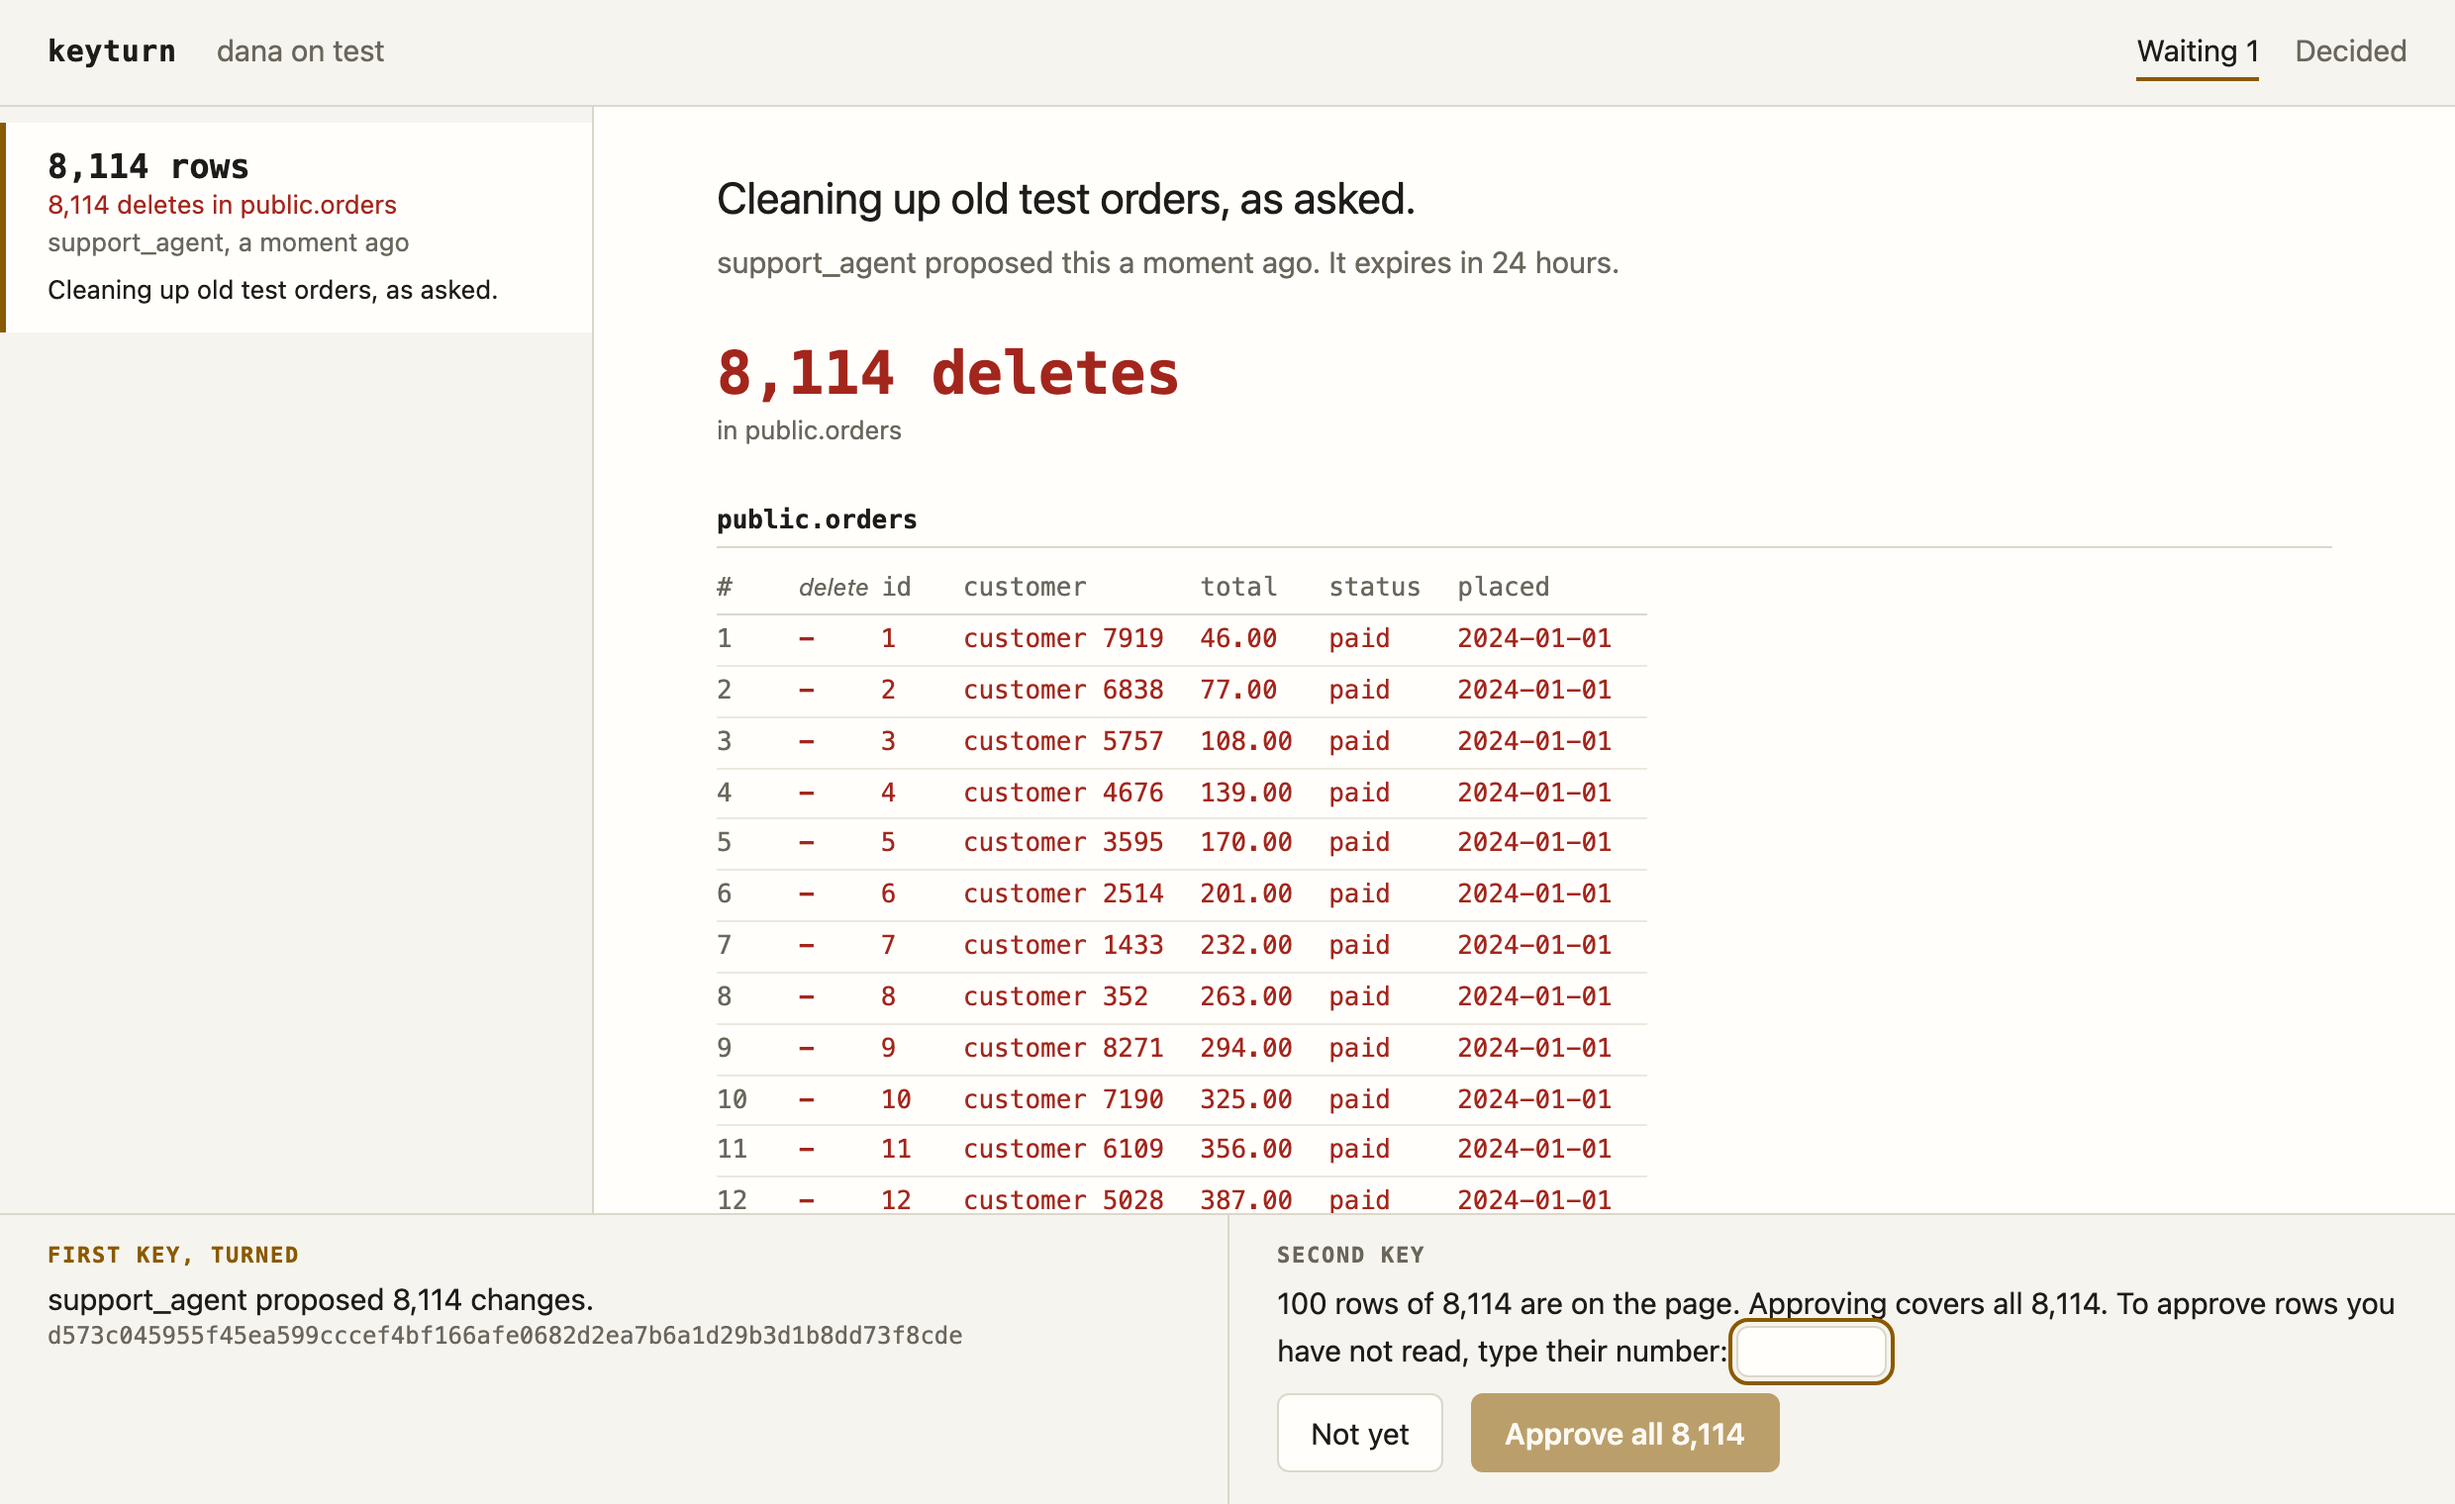
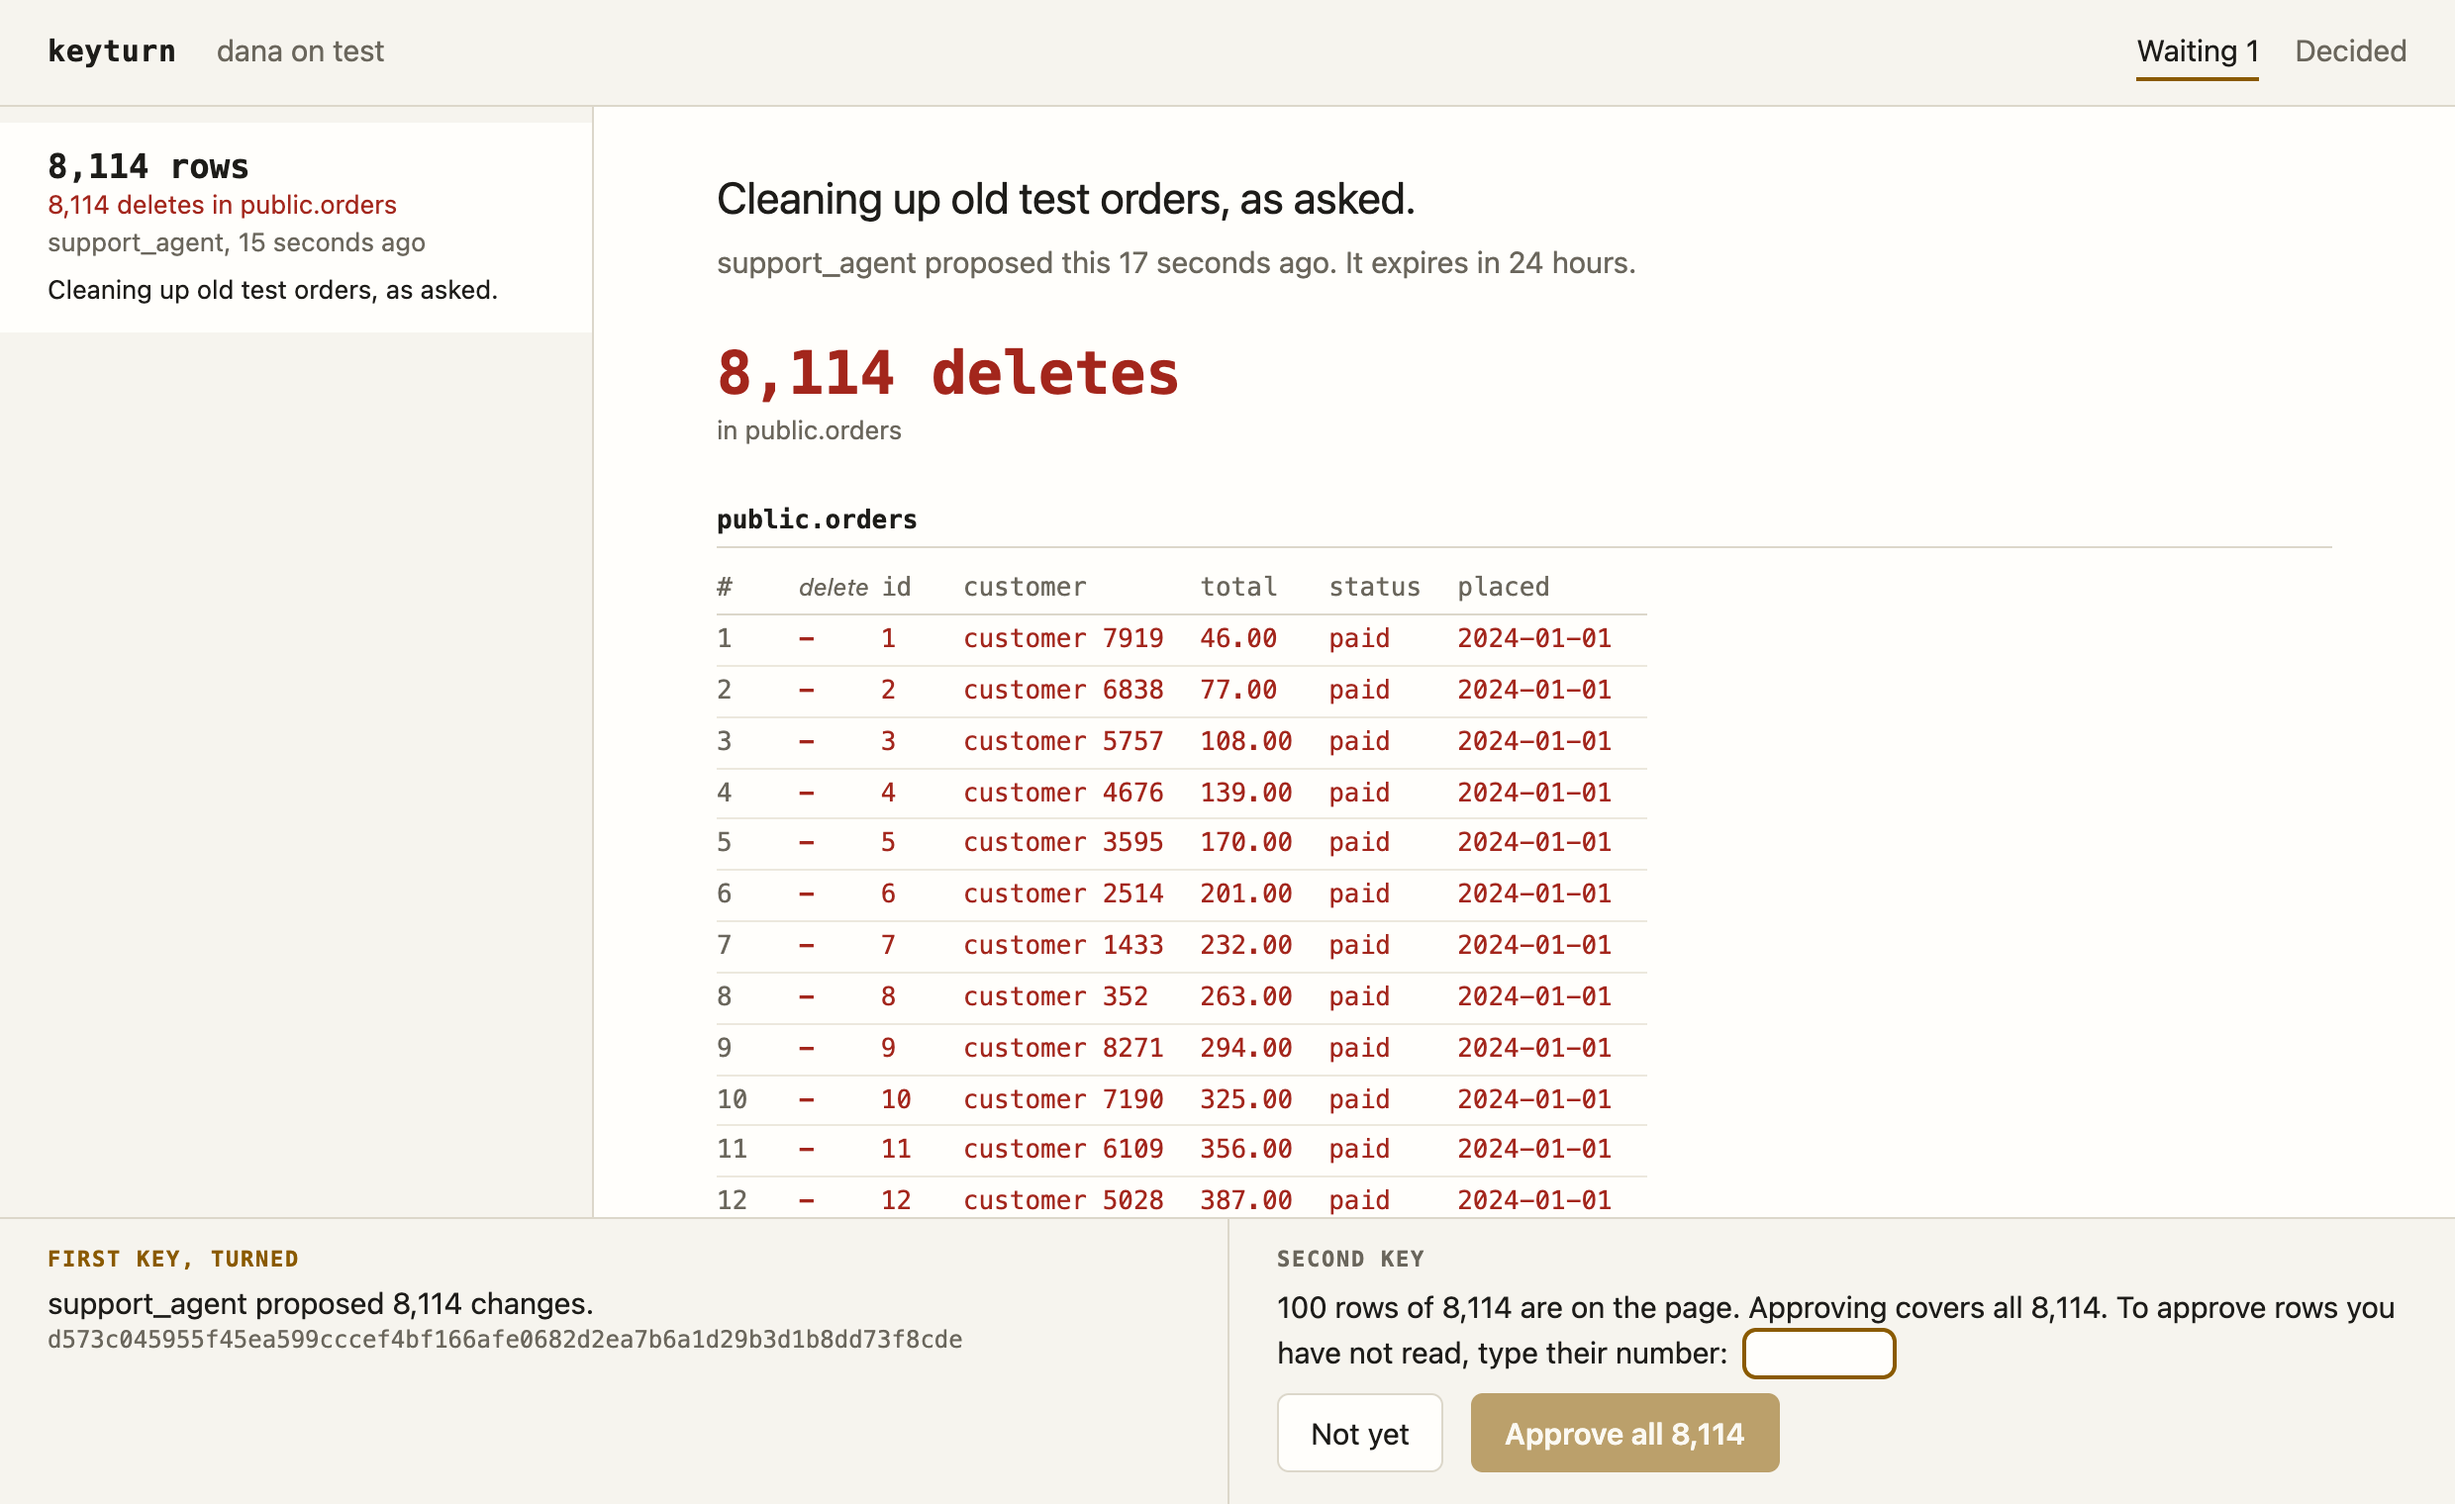
Review page: a focused field has one edge, and the chosen proposal no stripe
The number field in the second key drew a ring around its own border. Focus
now colours the border. The stripes down the left of the chosen proposal and
of the notice are gone; the README pictures are retaken.

diff --git a/review/style.css b/review/style.css
@@ -140,12 +140,10 @@ button {
   display: block;
   width: 100%;
   text-align: left;
-  padding: 12px 20px 12px 21px;
-  border-left: 3px solid transparent;
+  padding: 12px 20px 12px 24px;
 }
 
 .queue button[aria-current="true"] {
-  border-left-color: var(--brass);
   background: var(--sheet);
 }
 
@@ -246,7 +244,6 @@ button {
 .banner {
   margin: 0 0 24px;
   padding: 10px 14px;
-  border-left: 3px solid var(--gone);
   background: var(--gone-wash);
 }
 
@@ -404,12 +401,21 @@ button:disabled {
 
 .key input {
   width: 9ch;
-  padding: 4px 8px;
+  margin-left: 4px;
+  padding: 3px 8px;
   font: 14px var(--mono);
   color: inherit;
   background: var(--sheet);
   border: 1px solid var(--rule);
   border-radius: 6px;
+  vertical-align: baseline;
+}
+
+/* A field already has an edge. Focus colours that edge, and draws no second ring around it. */
+.key input:focus-visible,
+.key textarea:focus-visible {
+  outline-offset: -1px;
+  border-color: var(--brass);
 }
 
 .more .link {
